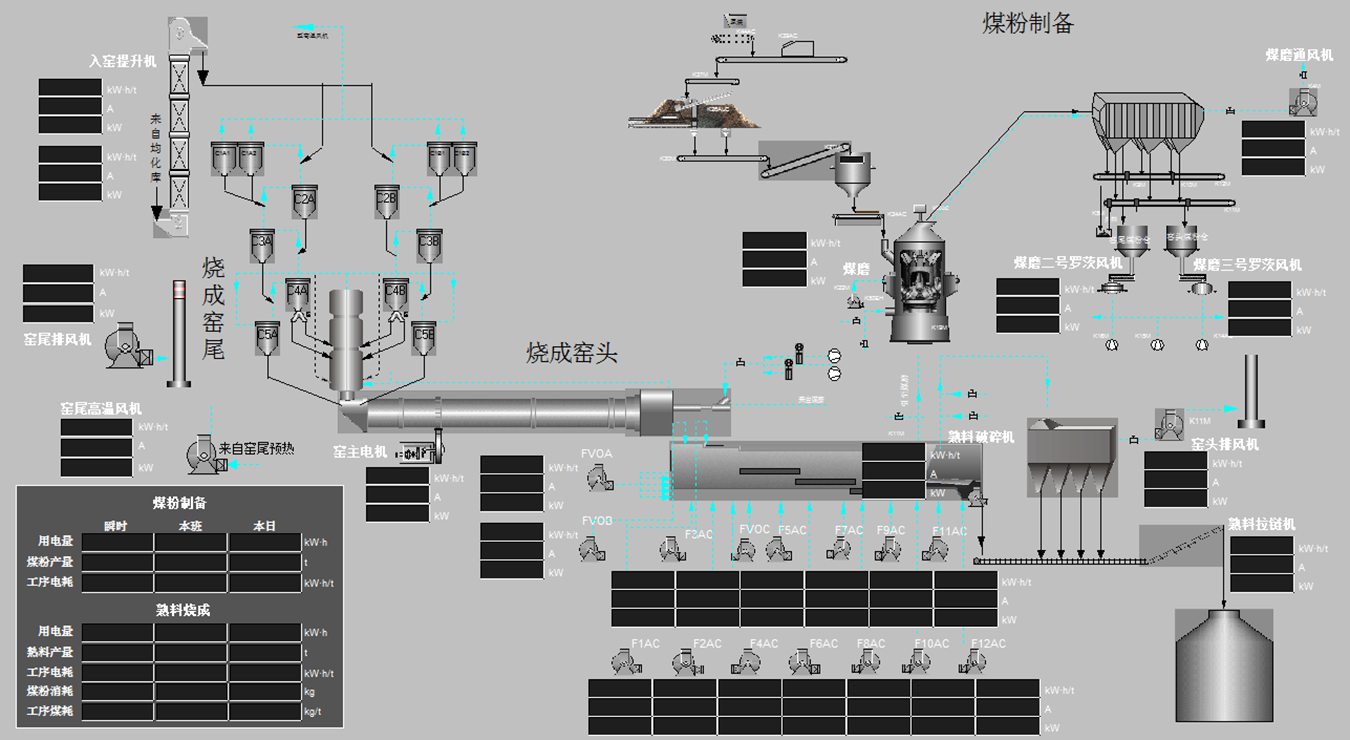
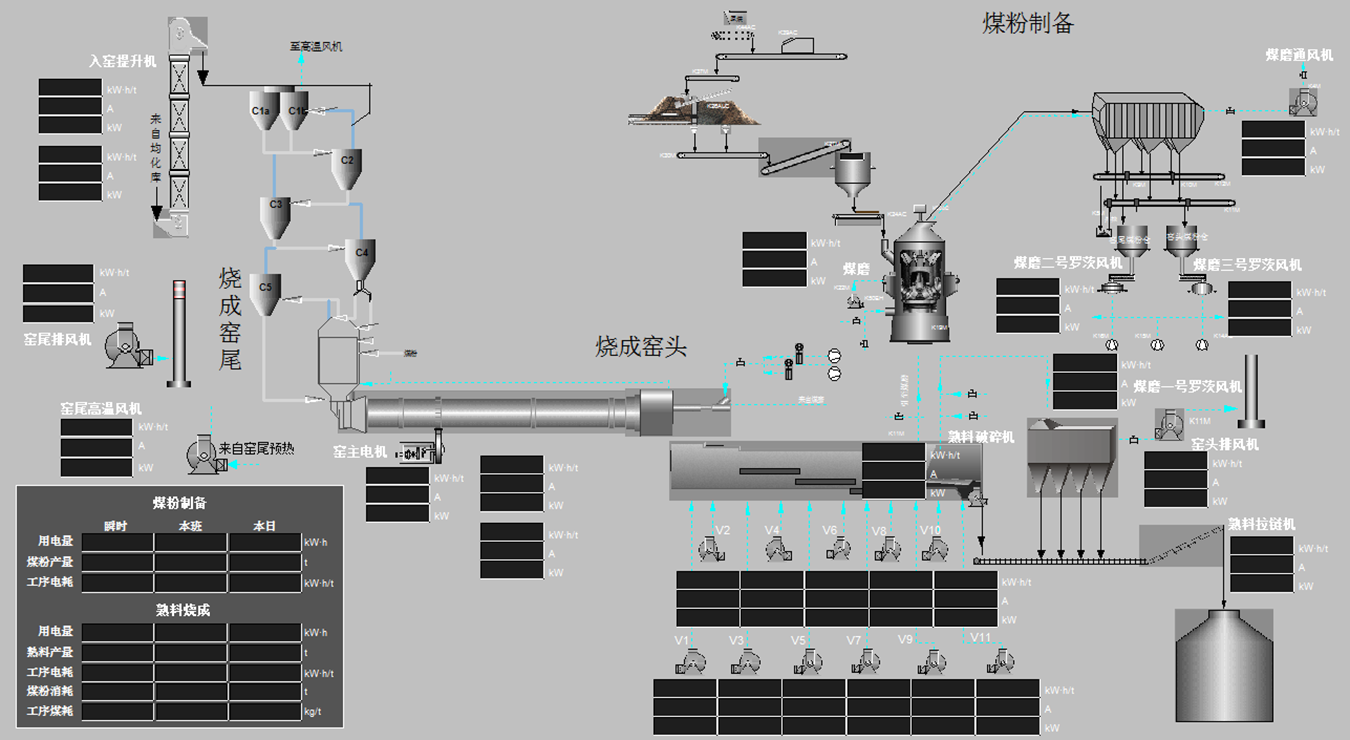
添加煤磨一号罗茨风机

diff --git a/Monitor_byc/Monitor_byc.web/UI_Monitor/js/common/alarm.js b/Monitor_byc/Monitor_byc.web/UI_Monitor/js/common/alarm.js
@@ -1,5 +1,4 @@
-
-//存储报警标签的ID
+//存储报警标签的ID
 var myArray = new Array();
 
 $(function () {

diff --git a/Monitor_shell/Monitor_shell.Web/UI_Monitor/ProcessEnergyMonitor/MonitorShell/MultiMonitorShell.asmx.cs b/Monitor_shell/Monitor_shell.Web/UI_Monitor/ProcessEnergyMonitor/MonitorShell/MultiMonitorShell.asmx.cs
@@ -188,88 +188,5 @@ namespace Monitor_shell.Web.UI_Monitor.ProcessEnergyMonitor.MonitorShell
             string json = MultiTrendlineRendererService.GetLableName();
             return json;
         }
-        /*private void GetProductionLineRealTimeData(string organizationId, string factoryLevelOrganizaiontId, string sceneName, IList<DataItem> dataItems)
-        {
-            string dcsConn = ConnectionStringFactory.GetDCSConnectionString(organizationId);
-            string ammeterConn = ConnectionStringFactory.GetAmmeterConnectionString(factoryLevelOrganizaiontId);
-
-            #region 获得dcs实时数据
-            ProcessEnergyMonitorService monitorService = new ProcessEnergyMonitorService(dcsConn);
-            IEnumerable<DataItem> monitorItems = monitorService.GetRealtimeDatas(organizationId, sceneName);
-            foreach (var item in monitorItems)
-            {
-                dataItems.Add(item);
-            }
-            #endregion
-
-            MonitorShellService shellService = new MonitorShellService("", ammeterConn, "");
-
-            #region 获得电表功率数据
-            IEnumerable<DataItem> ammeterItems = DataItemProviderFactory.CreateDataItemProvider(DataItemProviderType.RealtimePowerElectricityCoalDust).GetDataItem(factoryLevelOrganizaiontId);//shellService.GetRealtimePower(organizationId);
-            foreach (var item in ammeterItems)
-            {
-                dataItems.Add(item);
-            }
-            #endregion
-
-            #region 获得实时电能消耗数据
-            IEnumerable<DataItem> formulaValueItems = DataItemProviderFactory.CreateDataItemProvider(DataItemProviderType.RealtimeElectricityCoalConsumption).GetDataItem(factoryLevelOrganizaiontId);//shellService.GetRealtimeEnergyConsumption(organizationId);
-            foreach (var item in formulaValueItems)
-            {
-                dataItems.Add(item);
-            }
-            #endregion
-
-            #region 获得物料消耗
-            IEnumerable<DataItem> materialValueItems = DataItemProviderFactory.CreateDataItemProvider(DataItemProviderType.MaterialConsumption).GetDataItem(factoryLevelOrganizaiontId);
-            foreach (var item in materialValueItems)
-            {
-                dataItems.Add(item);
-            }
-            #endregion
-        }
-
-        private void GetCompanyRealTimeData(string organizationId, IList<DataItem> dataItems)
-        {
-            string connString = ConnectionStringFactory.NXJCConnectionString;
-            MonitorShellService shellService = new MonitorShellService(connString, "", "");
-
-            #region 获得当班、当日和当月的电量
-            IEnumerable<DataItem> monitorItems = DataItemProviderFactory.CreateDataItemProvider(DataItemProviderType.ClassDayMonthElectricity).GetDataItem(organizationId);//shellService.GetCDMElectricity(organizationId);
-            foreach (var item in monitorItems)
-            {
-                dataItems.Add(item);
-            }
-            #endregion
-
-            #region 获得当班、当日和当月的电耗
-            IEnumerable<DataItem> consumptionItems = DataItemProviderFactory.CreateDataItemProvider(DataItemProviderType.ClassDayMonthElectricityConsumption).GetDataItem(organizationId);//shellService.GetCDMElectricityConsumption(organizationId);
-            foreach (var item in consumptionItems)
-            {
-                dataItems.Add(item);
-            }
-            #endregion
-
-            #region 获得物料消耗
-            IEnumerable<DataItem> materialValueItems = DataItemProviderFactory.CreateDataItemProvider(DataItemProviderType.MaterialConsumption).GetDataItem(organizationId);
-            foreach (var item in materialValueItems)
-            {
-                dataItems.Add(item);
-            }
-            #endregion
-        }*/
-
-        //private string GetFactoryLevelOrganizationId(string organizationId)
-        //{
-        //    string[] subString = organizationId.Split('_');
-        //    if (subString.Count() == 5)
-        //    {
-        //        return subString[0] + "_" + subString[1] + "_" + subString[2] + "_" + subString[3];
-        //    }
-        //    else
-        //    {
-        //        return organizationId;
-        //    }
-        //}
     }
 }

diff --git a/Monitor_shell/Monitor_shell.Service/ProcessEnergyMonitor/MonitorShell/CDMElectricityConsumptionProvider.cs b/Monitor_shell/Monitor_shell.Service/ProcessEnergyMonitor/MonitorShell/CDMElectricityConsumptionProvider.cs
@@ -21,7 +21,11 @@ namespace Monitor_shell.Service.ProcessEnergyMonitor.MonitorShell
         {
             IList<DataItem> results = new List<DataItem>();
 
-            string sqlSource = @"select * from (SELECT A.OrganizationID,A.VariableId,A.CumulantClass,A.CumulantLastClass,A.CumulantDay,(A.CumulantDay+(case when B.MonthValue is null then 0 else B.MonthValue end)) AS CumulantMonth
+            string sqlSource = @"select * from (SELECT A.OrganizationID,A.VariableId,(case when A.CumulantClass<=@correctionValue then 0 else A.CumulantClass end) as CumulantClass,
+				(case when A.CumulantLastClass<=@correctionValue then 0 else A.CumulantLastClass end) as CumulantLastClass,
+				(case when A.CumulantDay<=@correctionValue then 0 else A.CumulantDay end) as CumulantDay,
+				(case when (A.CumulantDay+(case when B.MonthValue is null then 0 else B.MonthValue end))<=@correctionValue then 0 
+				else (A.CumulantDay+(case when B.MonthValue is null then 0 else B.MonthValue end)) end) AS CumulantMonth
                                                     FROM RealtimeIncrementCumulant AS A
                                                 LEFT JOIN  
                                                     (select D.OrganizationID,D.VariableId,sum(D.TotalPeakValleyFlat) as MonthValue
@@ -34,12 +38,13 @@ namespace Monitor_shell.Service.ProcessEnergyMonitor.MonitorShell
             //cdy修改开始
 
             //StringBuilder sqlSourceBase = new StringBuilder(sqlSource);
-            //IList<SqlParameter> sourceparameters = new List<SqlParameter>();
-            //sourceparameters.Add(new SqlParameter("@organizationId", organizationId));
+            IList<SqlParameter> sourceparameters = new List<SqlParameter>();
+            sourceparameters.Add(new SqlParameter("@organizationId", organizationId));
+            sourceparameters.Add(new SqlParameter("@correctionValue", CorrectionValue.OutputCorrectionValue));
             //ParametersHelper.AddParamsCondition(sqlSourceBase, sourceparameters, variableIds);
-            //DataTable sourceDt = _nxjcFactory.Query(sqlSourceBase.ToString(), sourceparameters.ToArray());
-            SqlParameter parameter = new SqlParameter("organizationId",organizationId);
-            DataTable sourceDt = _nxjcFactory.Query(sqlSource, parameter);
+            DataTable sourceDt = _nxjcFactory.Query(sqlSource, sourceparameters.ToArray());
+            //SqlParameter parameter = new SqlParameter("organizationId",organizationId);
+            //DataTable sourceDt = _nxjcFactory.Query(sqlSource, parameter);
             //cdy修改结束
 
             string sqlTemplate = @"select * from (SELECT A.OrganizationID,B.VariableID,B.ValueFormula

diff --git a/Monitor_shell/Monitor_shell.Service/ProcessEnergyMonitor/CorrectionValue.cs b/Monitor_shell/Monitor_shell.Service/ProcessEnergyMonitor/CorrectionValue.cs
@@ -1,0 +1,12 @@
+using System;
+using System.Collections.Generic;
+using System.Linq;
+using System.Text;
+
+namespace Monitor_shell.Service.ProcessEnergyMonitor
+{
+    public class CorrectionValue
+    {
+        public static const double OutputCorrectionValue = 0.1;
+    }
+}
